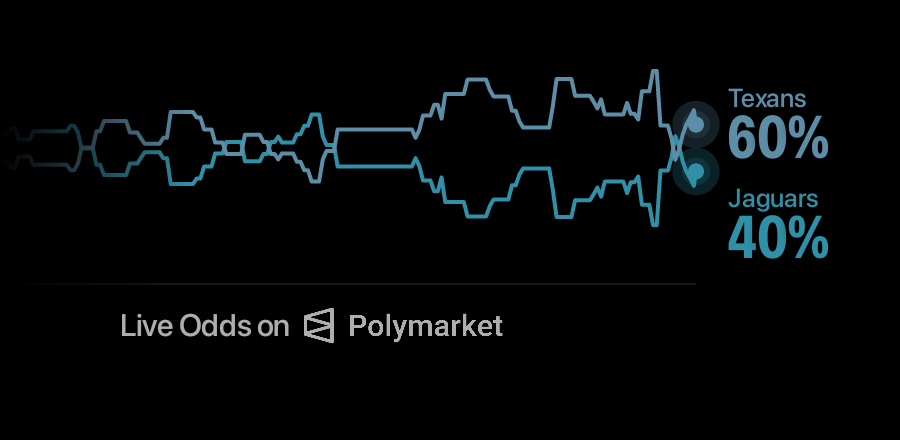
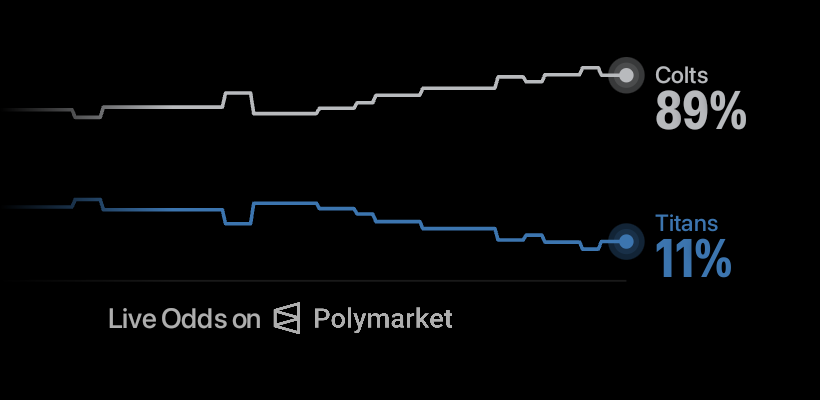
Overlay: 10% smaller and raised toward the top edge

diff --git a/src/com/tvodds/OddsView.java b/src/com/tvodds/OddsView.java
@@ -44,7 +44,9 @@ final class OddsView extends View {
     // Layout (dp). The chart bleeds off the left edge of the screen behind a fade; labels and the
     // brand row stay inside the TV's title-safe area.
     static final float VIEW_W = 600, VIEW_H = 320;
-    private static final float PLOT_L = 0, PLOT_R = 348, PLOT_W = PLOT_R - PLOT_L, Y0 = 44, PLOT_H = 120;
+    /** Overall size of the overlay; layout below is authored at 1.0. */
+    private static final float SCALE = 0.9f;
+    private static final float PLOT_L = 0, PLOT_R = 348, PLOT_W = PLOT_R - PLOT_L, Y0 = 28, PLOT_H = 120;
     private static final float BRAND_X = 60, FADE_W = 96;
     private static final float LBL_GAP = 16, LBL_H = 46;
     private static final long PULSE_MS = 1800;
@@ -134,13 +136,13 @@ final class OddsView extends View {
 
     @Override
     protected void onMeasure(int w, int h) {
-        setMeasuredDimension(Math.round(VIEW_W * d), Math.round(VIEW_H * d));
+        setMeasuredDimension(Math.round(VIEW_W * d * SCALE), Math.round(VIEW_H * d * SCALE));
     }
 
     @Override
     protected void onDraw(Canvas c) {
         c.save();
-        c.scale(d, d);
+        c.scale(d * SCALE, d * SCALE);
         c.drawRect(0, 0, VIEW_W, VIEW_H, bg);
         Frame f = frame;
         if (f != null) {

diff --git a/README.md b/README.md
@@ -240,6 +240,7 @@ src/com/tvodds/
 |---|---|
 | Default delay / max delay | `OverlayService.DEFAULT_DELAY_S`, `MAX_DELAY_S` |
 | Which leagues are searched, and in what order | `Poly.LEAGUES` (slugs from `GET /v2/leagues`) |
+| Overall overlay size | `OddsView.SCALE` (0.9; 1.0 = authored size) |
 | Position and size of the chart | `OddsView`: `PLOT_R`, `Y0`, `PLOT_H`, `BRAND_X`, `VIEW_W/H` |
 | Left-edge fade length | `OddsView.FADE_W` |
 | Corner gradient strength | the `RadialGradient` colors in the `OddsView` constructor |
